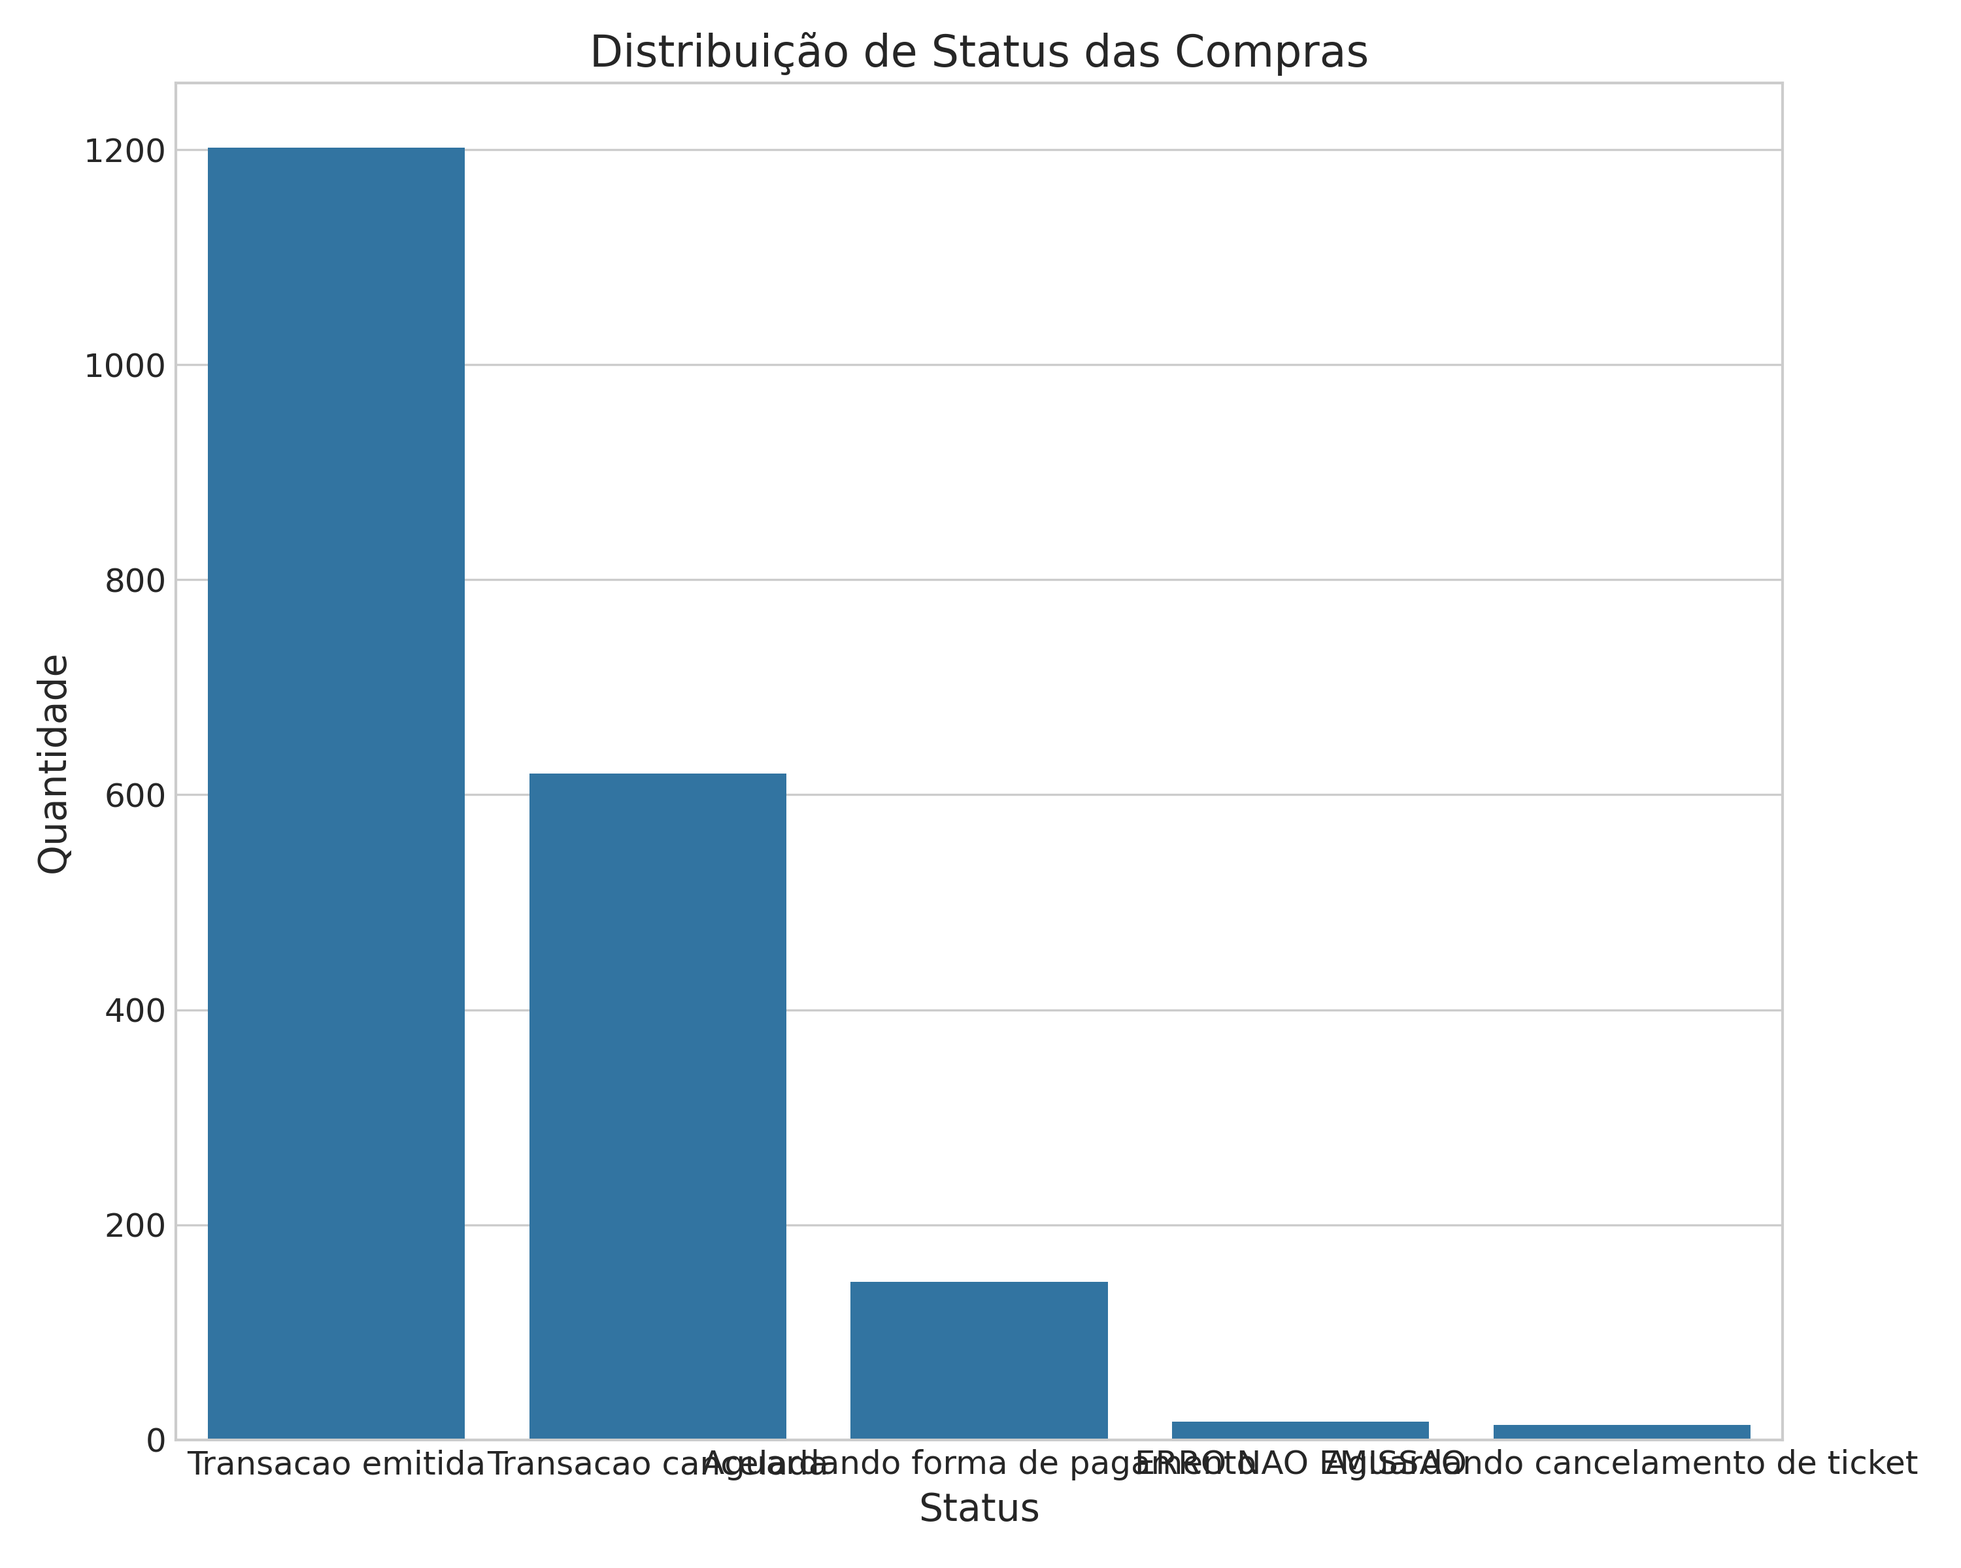
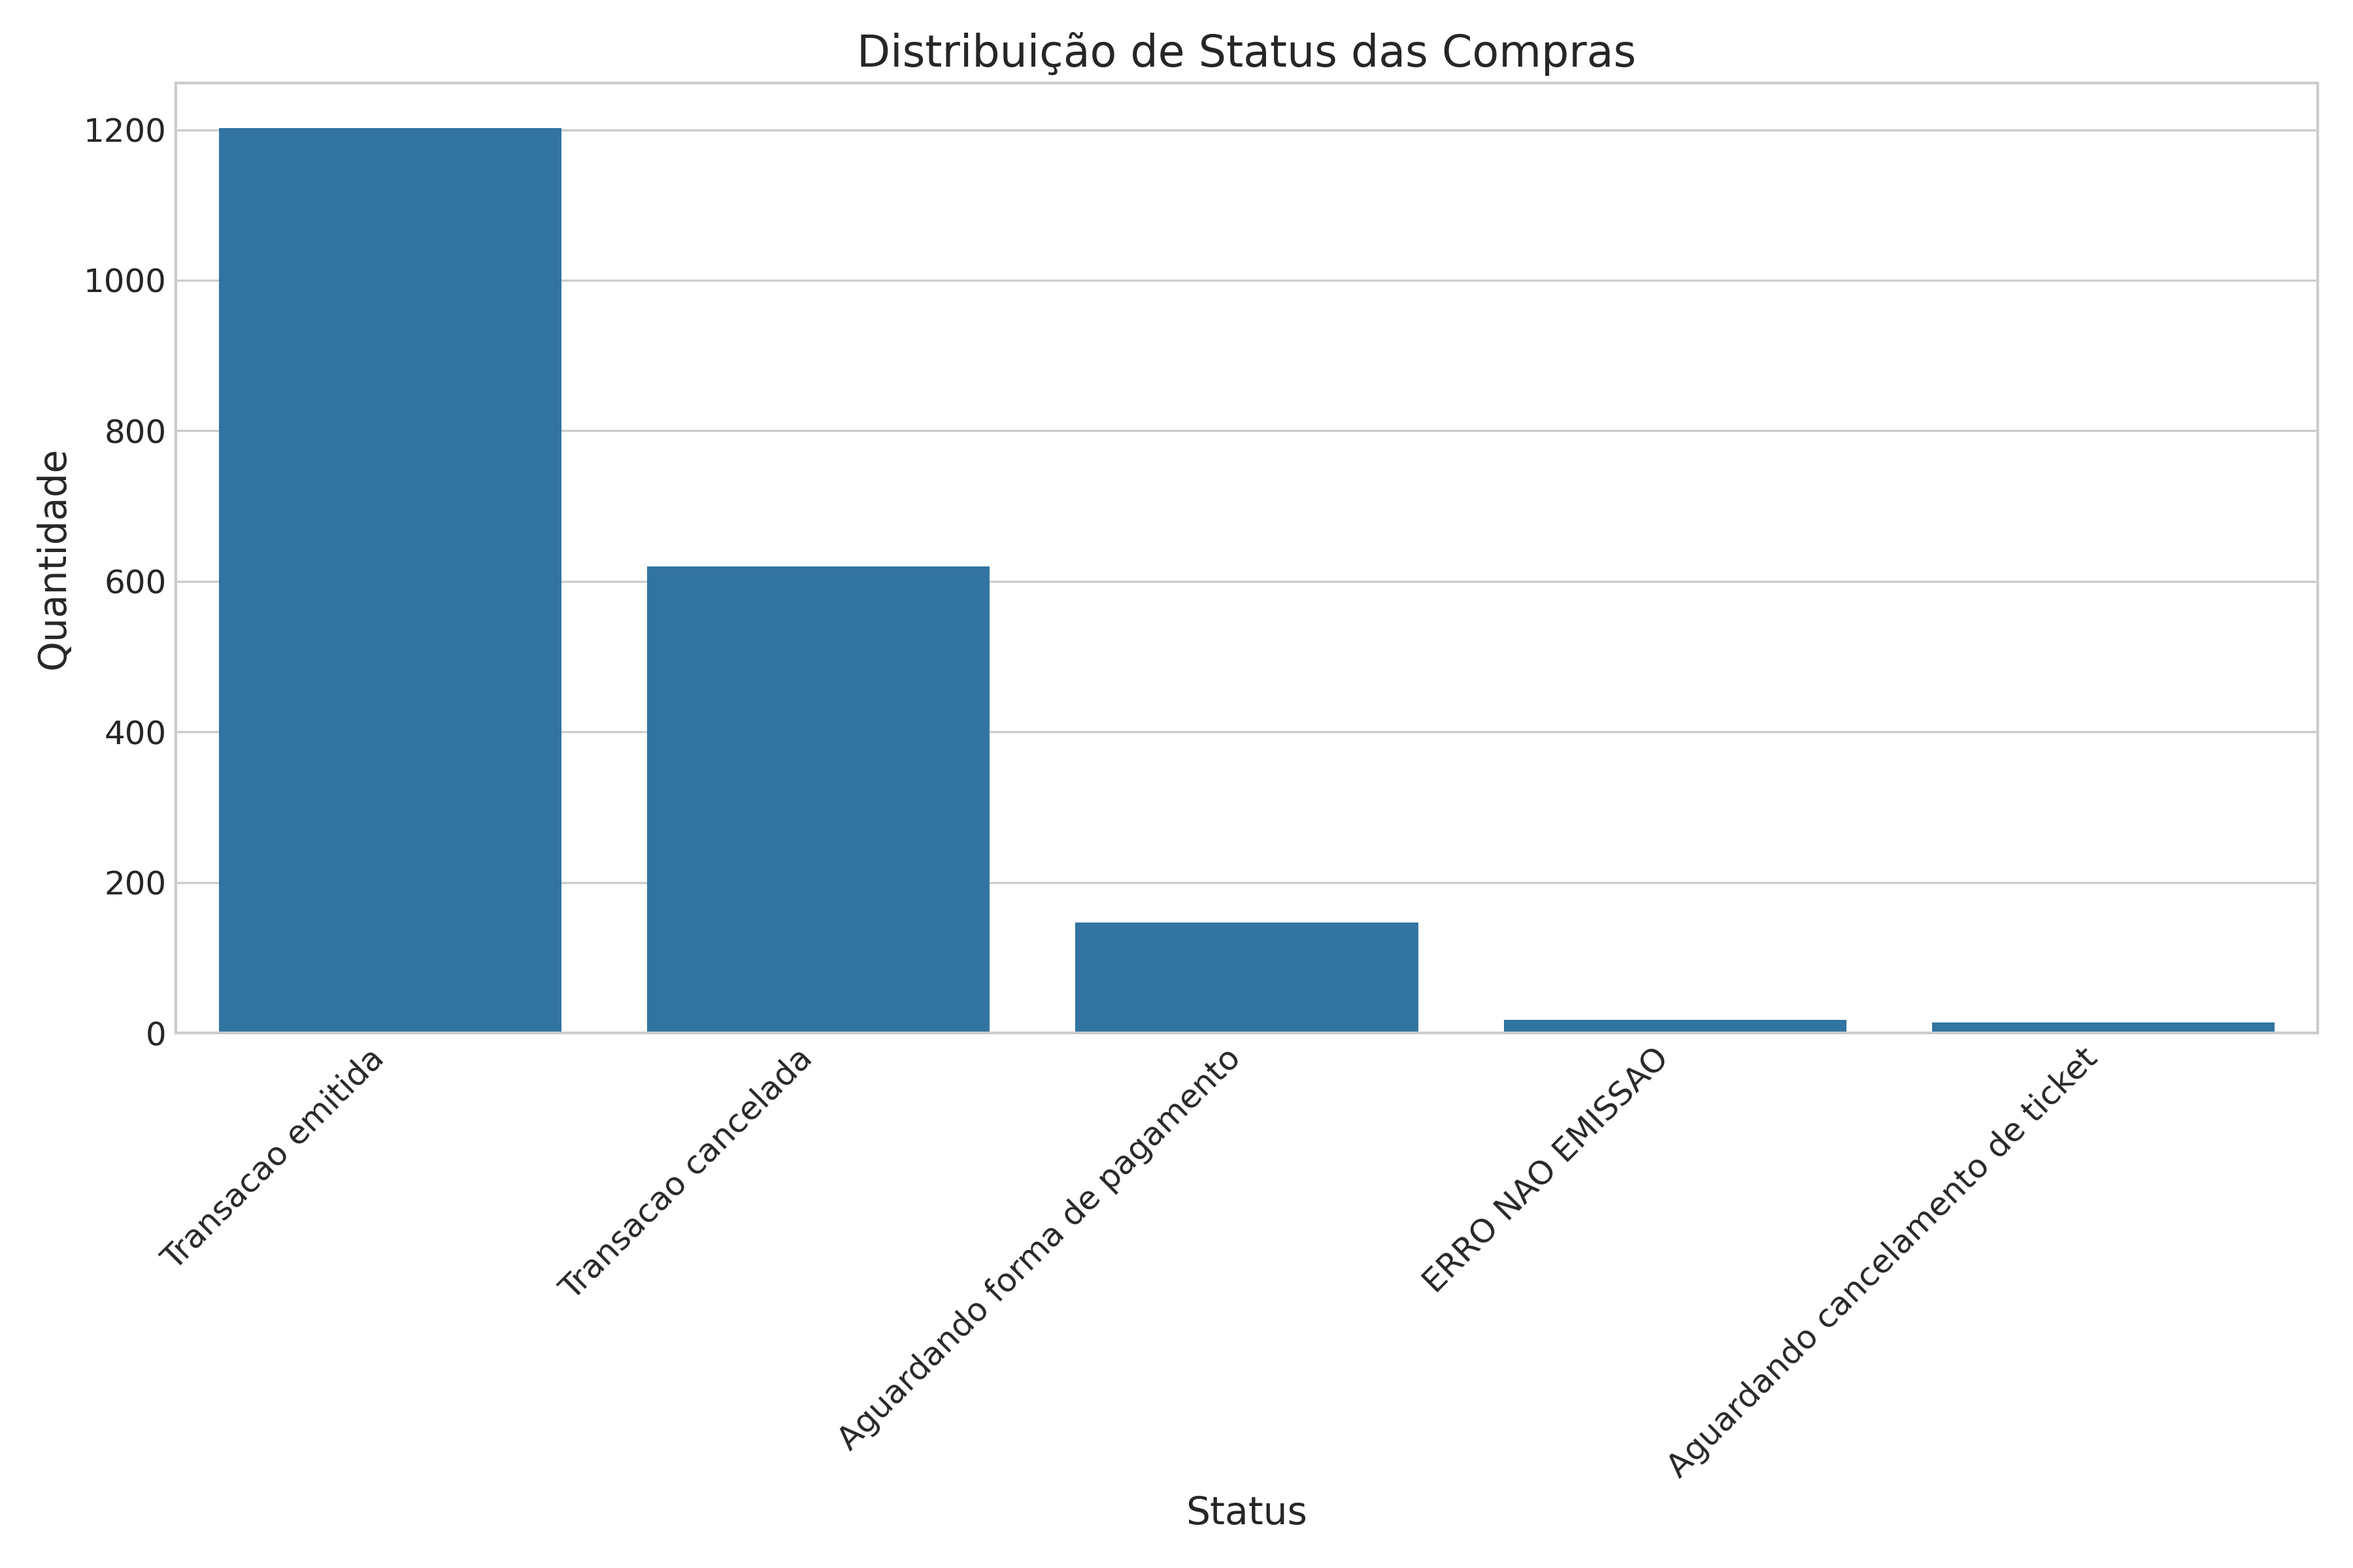
feat: sql code

diff --git a/analise.py b/analise.py
@@ -80,11 +80,12 @@ plt.close()
 
 # Analise de status das compras
 status_counts = df['status'].value_counts()
-plt.figure(figsize=(10, 8))
+plt.figure(figsize=(12, 8))
 ax = sns.barplot(x=status_counts.index, y=status_counts.values)
 plt.title('Distribuição de Status das Compras')
 plt.xlabel('Status')
 plt.ylabel('Quantidade')
+plt.xticks(rotation=45, ha='right') 
 plt.tight_layout()
 plt.savefig('status_compras.png', dpi=300)
 plt.close()
@@ -187,6 +188,7 @@ milhas_media_geral = df_com_milhas['milhas_usadas'].mean() if len(df_com_milhas)
 milhas_media_por_status = df_com_milhas.groupby('status')['milhas_usadas'].mean() if len(df_com_milhas) > 0 else pd.Series()
 milhas_media_por_tipo = df_com_milhas.groupby('tipo_viagem')['milhas_usadas'].mean() if len(df_com_milhas) > 0 else pd.Series()
 
+# escreve as estatísticas em um arquivo de texto
 with open('estatisticas_metricas.txt', 'w') as f:
     f.write("ESTATÍSTICAS DAS MÉTRICAS PROPOSTAS\n\n")
     
